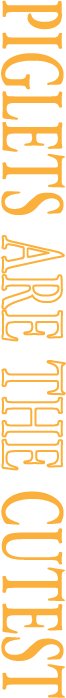
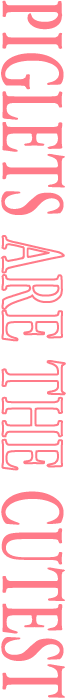
新增week页面，懂得人自然懂

Changed region(s): [[0.0, 0.0, 1.0, 1.0]]

diff --git a/src/views/week.vue b/src/views/week.vue
@@ -122,7 +122,7 @@ export default {
 </script>
 <style lang="scss" scoped>
 @import '@/assets/css/global.scss';
-$orange: #fbb03b;
+$orange: #ff7b89;
 .week{
     background-color: #fff;
     padding: px2rem(18);
